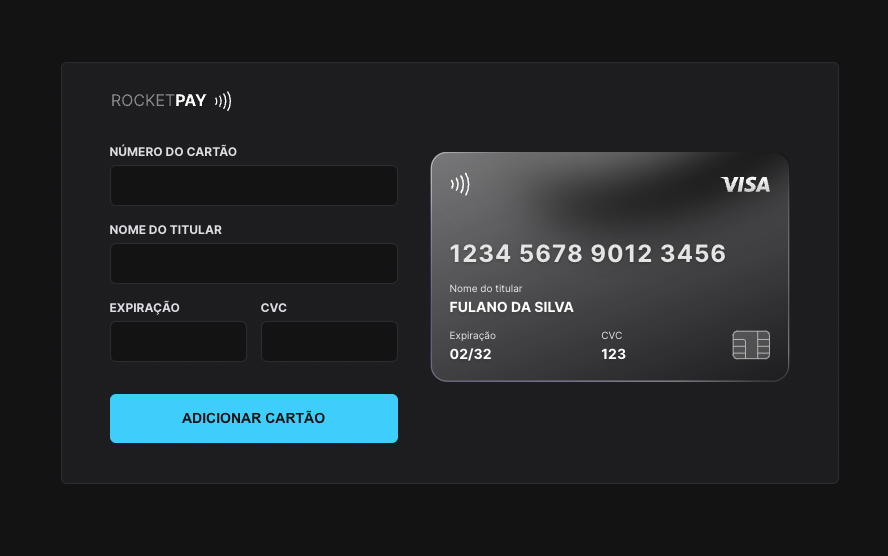
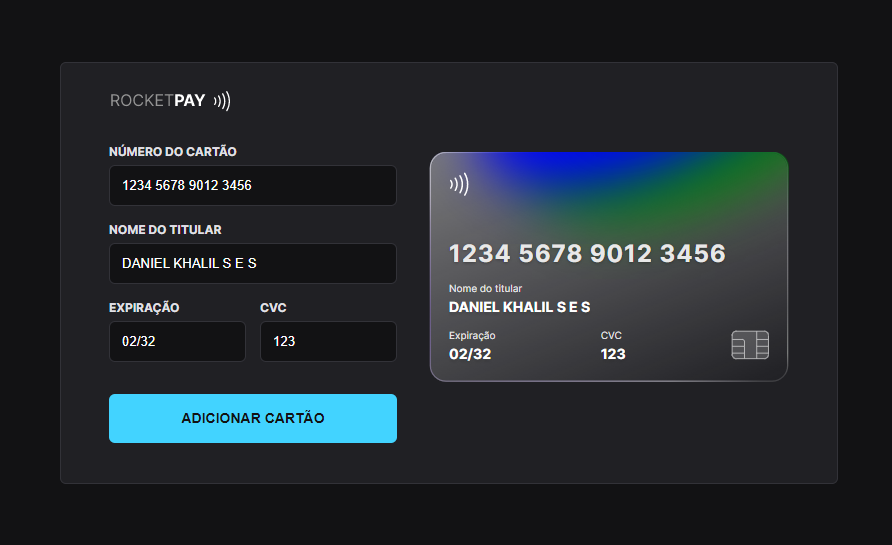
adicionando card de projeto ao readme

diff --git a/index.html b/index.html
@@ -115,7 +115,7 @@
 
           <div class="cc-holder">
             <div class="label">Nome do titular</div>
-            <div class="value">FULANO DA SILVA</div>
+            <div class="value">DANIEL KHALIL S E S</div>
           </div>
 
           <div class="cc-extra">
